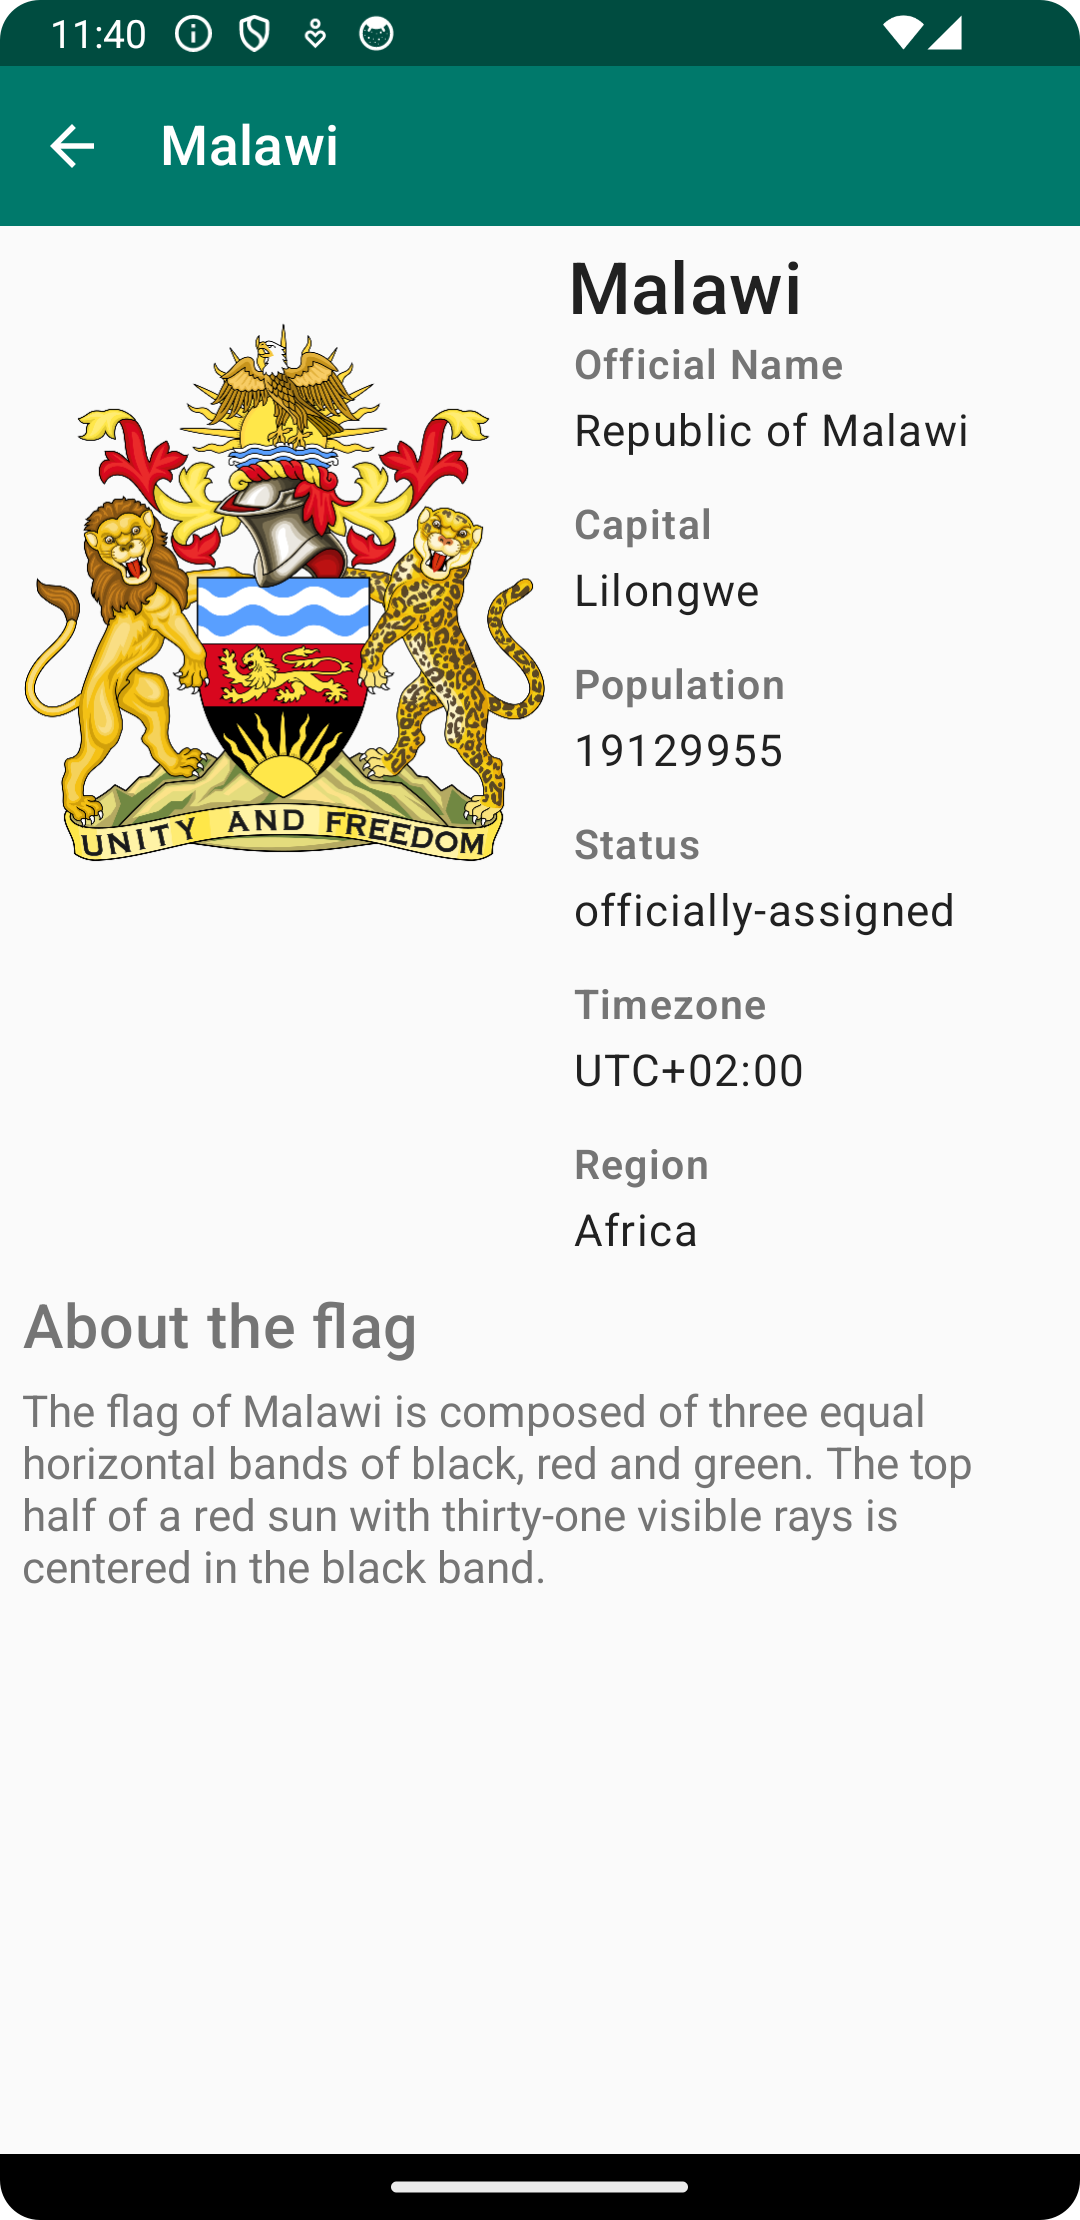
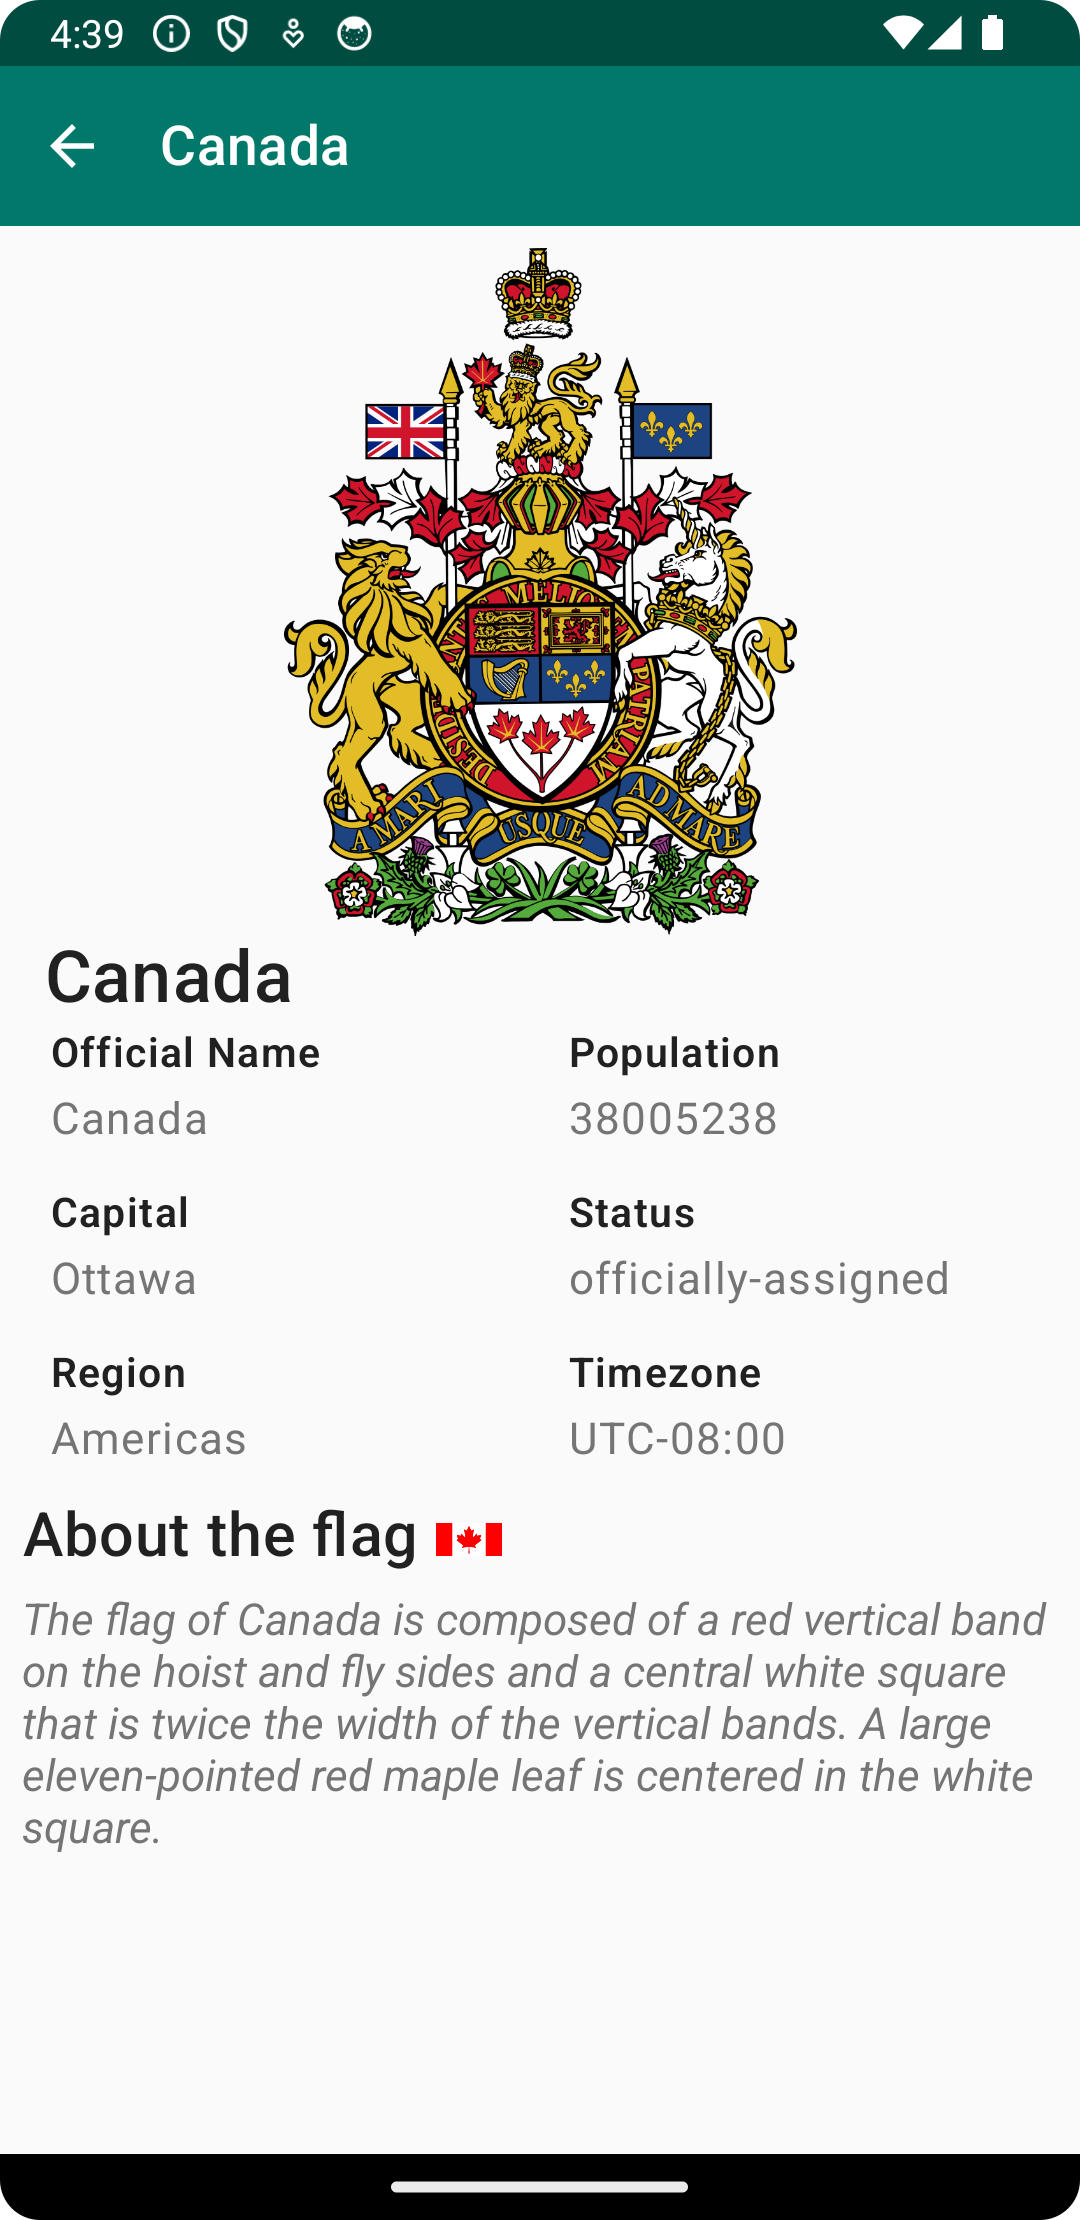
design changes

Changed region(s): [[0.0, 0.0932, 0.9778, 0.8392], [0.0306, 0.0, 0.3667, 0.0932], [0.8861, 0.0, 0.9472, 0.0311]]

diff --git a/app/src/main/java/com/example/countrydemo/ui/screens/components/CountryBodyNew.kt b/app/src/main/java/com/example/countrydemo/ui/screens/components/CountryBodyNew.kt
@@ -1,0 +1,134 @@
+package com.example.countrydemo.ui.screens.components
+
+import androidx.compose.foundation.background
+import androidx.compose.foundation.layout.Arrangement
+import androidx.compose.foundation.layout.Box
+import androidx.compose.foundation.layout.Column
+import androidx.compose.foundation.layout.Row
+import androidx.compose.foundation.layout.Spacer
+import androidx.compose.foundation.layout.fillMaxSize
+import androidx.compose.foundation.layout.height
+import androidx.compose.foundation.layout.padding
+import androidx.compose.foundation.layout.size
+import androidx.compose.foundation.layout.width
+import androidx.compose.material.Text
+import androidx.compose.runtime.Composable
+import androidx.compose.ui.Alignment
+import androidx.compose.ui.Modifier
+import androidx.compose.ui.layout.ContentScale
+import androidx.compose.ui.res.painterResource
+import androidx.compose.ui.res.stringResource
+import androidx.compose.ui.text.font.FontWeight
+import androidx.compose.ui.unit.dp
+import androidx.compose.ui.unit.sp
+import coil.compose.AsyncImage
+import com.example.countrydemo.R
+import com.example.countrydemo.data.model.Country
+import com.example.countrydemo.ui.theme.DefaultBackgroundColor
+import com.example.countrydemo.ui.theme.FontColor
+
+@Composable
+fun CountryBodyNew(
+    country: Country
+) {
+    Column(
+        horizontalAlignment = Alignment.CenterHorizontally,
+        modifier = Modifier
+            .fillMaxSize()
+            .background(
+                DefaultBackgroundColor
+            )
+            .padding(start = 8.dp, top = 8.dp, end = 8.dp)
+    ) {
+
+        AsyncImage(
+            model = country.coatOfArms.png,
+            contentDescription = null,
+            modifier = Modifier
+                .height(250.dp)
+                .width(190.dp),
+            contentScale = ContentScale.Inside,
+            placeholder = painterResource(id = R.drawable.placeholder)
+        )
+        Column(
+            modifier = Modifier
+                .fillMaxSize()
+        ) {
+
+            Row {
+                Text(
+                    modifier = Modifier.padding(start = 8.dp),
+                    text = country.name.common,
+                    color = FontColor,
+                    fontSize = 26.sp,
+                    fontWeight = FontWeight.Medium
+                )
+            }
+            Row {
+                Column(modifier = Modifier.weight(.5f)) {
+
+                    CountryInfo(
+                        title = stringResource(id = R.string.official),
+                        info = country.name.official
+                    )
+                    CountryInfo(
+                        title = stringResource(id = R.string.capital),
+                        info = country.capital[0].toString()
+                    )
+                }
+                Column(modifier = Modifier.weight(.5f)) {
+                    CountryInfo(
+                        title = stringResource(id = R.string.population),
+                        info = country.population.toString()
+                    )
+                    CountryInfo(
+                        title = stringResource(id = R.string.status),
+                        info = country.status
+                    )
+                }
+
+            }
+            Row {
+
+                Box(modifier = Modifier.weight(.5f)) {
+                    CountryInfo(
+                        title = stringResource(id = R.string.region),
+                        info = country.region,
+                    )
+                }
+                Box(modifier = Modifier.weight(.5f)) {
+                    CountryInfo(
+                        title = stringResource(id = R.string.timezone),
+                        info = country.timezones[0]
+                    )
+                }
+
+            }
+        }
+        Row(horizontalArrangement = Arrangement.Start) {
+            Text(
+                modifier = Modifier
+                    .padding(bottom = 8.dp),
+                text = stringResource(R.string.about),
+                color = FontColor,
+                fontSize = 22.sp,
+                fontWeight = FontWeight.Medium
+            )
+            Spacer(modifier = Modifier.width(4.dp))
+            AsyncImage(
+                model = country.flags.png,
+                contentDescription = null,
+                modifier = Modifier
+                    .padding(2.dp)
+                    .size(24.dp),
+                contentScale = ContentScale.Inside,
+                placeholder = painterResource(id = R.drawable.placeholder)
+
+            )
+            Text(text = "", Modifier.weight(.5f))
+        }
+        AboutText(
+            text = country.flags.alt
+        )
+    }
+}

diff --git a/app/src/main/java/com/example/countrydemo/ui/screens/components/CountryCardNew.kt b/app/src/main/java/com/example/countrydemo/ui/screens/components/CountryCardNew.kt
@@ -1,0 +1,114 @@
+package com.example.countrydemo.ui.screens.components
+
+import androidx.compose.foundation.Image
+import androidx.compose.foundation.clickable
+import androidx.compose.foundation.layout.Column
+import androidx.compose.foundation.layout.Row
+import androidx.compose.foundation.layout.fillMaxWidth
+import androidx.compose.foundation.layout.height
+import androidx.compose.foundation.layout.padding
+import androidx.compose.foundation.layout.size
+import androidx.compose.foundation.shape.RoundedCornerShape
+import androidx.compose.material.Card
+import androidx.compose.material.MaterialTheme
+import androidx.compose.material.Text
+import androidx.compose.material.icons.Icons
+import androidx.compose.material.icons.rounded.CheckCircle
+import androidx.compose.runtime.Composable
+import androidx.compose.ui.Alignment
+import androidx.compose.ui.Modifier
+import androidx.compose.ui.graphics.Color
+import androidx.compose.ui.graphics.ColorFilter
+import androidx.compose.ui.layout.ContentScale
+import androidx.compose.ui.res.painterResource
+import androidx.compose.ui.res.stringResource
+import androidx.compose.ui.text.font.FontWeight
+import androidx.compose.ui.text.style.TextOverflow
+import androidx.compose.ui.unit.dp
+import androidx.compose.ui.unit.sp
+import coil.compose.AsyncImage
+import com.example.countrydemo.R
+
+@Composable
+fun CountryCardNew(
+    selectedCountry: (String) -> Unit,
+    imagePath: String,
+    commonName: String,
+    capital: String,
+    status: String,
+    timezones: String
+) {
+    Card(
+        elevation = 8.dp,
+        modifier = Modifier
+            .padding(8.dp)
+            .fillMaxWidth()
+            .height(60.dp),
+        shape = RoundedCornerShape(12.dp)
+    ) {
+        Column {
+
+            Row(
+                verticalAlignment = Alignment.CenterVertically,
+                modifier = Modifier
+                    .padding(8.dp)
+                    .clickable { selectedCountry(commonName) },
+
+                ) {
+
+                Column(modifier = Modifier.weight(8f)) {
+
+                    Row {
+                        Text(
+                            //modifier = Modifier.weight(1f),
+                            text = "${commonName.split(" ").first()} ",
+                            style = MaterialTheme.typography.h6,
+                            softWrap = true,
+                            maxLines = 1,
+                            overflow = TextOverflow.Ellipsis
+
+                        )
+                        if (status == "officially-assigned") {
+
+                            Image(
+                                imageVector = Icons.Rounded.CheckCircle,
+                                colorFilter = ColorFilter.tint(Color.Green),
+                                contentDescription = null,
+                                modifier = Modifier
+                                    .size(20.dp)
+                                    .padding(top = 2.dp)
+                            )
+
+                        } else {
+                            Text(text = "")
+                        }
+
+                        Text(
+                            text = " ($timezones)", fontSize = 12.sp, color = Color.Blue
+
+                        )
+                    }
+
+                    Text(
+                        text = "${stringResource(id = R.string.capital)}: $capital  ",
+                        style = MaterialTheme.typography.subtitle1,
+                        fontWeight = FontWeight.Normal
+
+                    )
+
+                }
+                AsyncImage(
+                    model = imagePath,
+                    contentDescription = null,
+                    modifier = Modifier
+                        .padding(2.dp)
+                        .size(40.dp)
+                        .weight(2f),
+                    contentScale = ContentScale.Inside,
+                    placeholder = painterResource(id = R.drawable.placeholder)
+
+                )
+            }
+        }
+    }
+}

diff --git a/app/src/main/java/com/example/countrydemo/ui/screens/components/CountryBody.kt b/app/src/main/java/com/example/countrydemo/ui/screens/components/CountryBody.kt
@@ -3,9 +3,11 @@ package com.example.countrydemo.ui.screens.components
 import androidx.compose.foundation.background
 import androidx.compose.foundation.layout.Column
 import androidx.compose.foundation.layout.Row
+import androidx.compose.foundation.layout.Spacer
 import androidx.compose.foundation.layout.fillMaxSize
 import androidx.compose.foundation.layout.height
 import androidx.compose.foundation.layout.padding
+import androidx.compose.foundation.layout.size
 import androidx.compose.foundation.layout.width
 import androidx.compose.material.Text
 import androidx.compose.runtime.Composable
@@ -79,13 +81,26 @@ fun CountryBody(
                 )
             }
         }
-        Text(
-            modifier = Modifier.padding(bottom = 8.dp),
-            text = stringResource(R.string.about),
-            color = SecondaryFontColor,
-            fontSize = 22.sp,
-            fontWeight = FontWeight.Medium
-        )
+        Row {
+            Text(
+                modifier = Modifier.padding(bottom = 8.dp),
+                text = stringResource(R.string.about),
+                color = SecondaryFontColor,
+                fontSize = 22.sp,
+                fontWeight = FontWeight.Medium
+            )
+            Spacer(modifier = Modifier.width(4.dp))
+            AsyncImage(
+                model = country.flags.png,
+                contentDescription = null,
+                modifier = Modifier
+                    .padding(2.dp)
+                    .size(24.dp),
+                contentScale = ContentScale.Inside,
+                placeholder = painterResource(id = R.drawable.placeholder)
+
+            )
+        }
         AboutText(
             text = country.flags.alt
         )

diff --git a/app/src/main/java/com/example/countrydemo/ui/screens/countries/MainScreen.kt b/app/src/main/java/com/example/countrydemo/ui/screens/countries/MainScreen.kt
@@ -16,7 +16,7 @@ import androidx.compose.ui.unit.dp
 import androidx.hilt.navigation.compose.hiltViewModel
 import com.example.countrydemo.network.NetworkResponse
 import com.example.countrydemo.ui.screens.components.CircularIndeterminateProgressBar
-import com.example.countrydemo.ui.screens.components.CountryCard
+import com.example.countrydemo.ui.screens.components.CountryCardNew
 import com.example.countrydemo.ui.screens.components.appbar.HomeAppBar
 
 @SuppressLint("UnusedMaterialScaffoldPaddingParameter")
@@ -44,7 +44,7 @@ fun MainScreen(selectedCountry: (String) -> Unit) {
                         contentPadding = PaddingValues(16.dp)
                     ) {
                         items(countries) { it ->
-                            CountryCard(
+                            CountryCardNew(
                                 selectedCountry = selectedCountry,
                                 imagePath = it.flags.png,
                                 commonName = it.name.common,

diff --git a/app/src/main/java/com/example/countrydemo/ui/screens/details/CountryDetail.kt b/app/src/main/java/com/example/countrydemo/ui/screens/details/CountryDetail.kt
@@ -17,7 +17,7 @@ import androidx.hilt.navigation.compose.hiltViewModel
 import com.example.countrydemo.data.model.Country
 import com.example.countrydemo.network.NetworkResponse
 import com.example.countrydemo.ui.screens.components.CircularIndeterminateProgressBar
-import com.example.countrydemo.ui.screens.components.CountryBody
+import com.example.countrydemo.ui.screens.components.CountryBodyNew
 import com.example.countrydemo.ui.screens.components.appbar.DetailAppBar
 
 @Composable
@@ -69,7 +69,7 @@ fun SetCountryDetail(
                     DetailAppBar(title = country.name.common, pressOnBack = navigationUp)
                 }
                 item {
-                    CountryBody(country = country)
+                    CountryBodyNew(country = country)
                 }
             }
         }

diff --git a/app/src/main/java/com/example/countrydemo/ui/theme/Type.kt b/app/src/main/java/com/example/countrydemo/ui/theme/Type.kt
@@ -5,6 +5,7 @@ import androidx.compose.runtime.Composable
 import androidx.compose.ui.graphics.Color
 import androidx.compose.ui.text.TextStyle
 import androidx.compose.ui.text.font.FontFamily
+import androidx.compose.ui.text.font.FontStyle
 import androidx.compose.ui.text.font.FontWeight
 import androidx.compose.ui.text.style.TextAlign
 import androidx.compose.ui.unit.sp
@@ -40,5 +41,6 @@ val Typography.aboutText: TextStyle
             fontFamily = FontFamily.Default,
             color = SecondaryFontColor,
             fontSize = 16.sp,
+            fontStyle = FontStyle.Italic
         )
     }

diff --git a/app/src/main/java/com/example/countrydemo/ui/screens/components/CountryInfo.kt b/app/src/main/java/com/example/countrydemo/ui/screens/components/CountryInfo.kt
@@ -16,12 +16,12 @@ fun CountryInfo(title: String, info: String) {
     Column(modifier = Modifier.padding(start = 10.dp, bottom = 10.dp)) {
         Text(
             text = title,
-            color = SecondaryFontColor,
+            color = FontColor,
             fontSize = 15.sp,
             fontWeight = FontWeight.SemiBold
         )
         Text(
-            text = info, color = FontColor, fontSize = 16.sp
+            text = info, color = SecondaryFontColor, fontSize = 16.sp
         )
     }
 }
